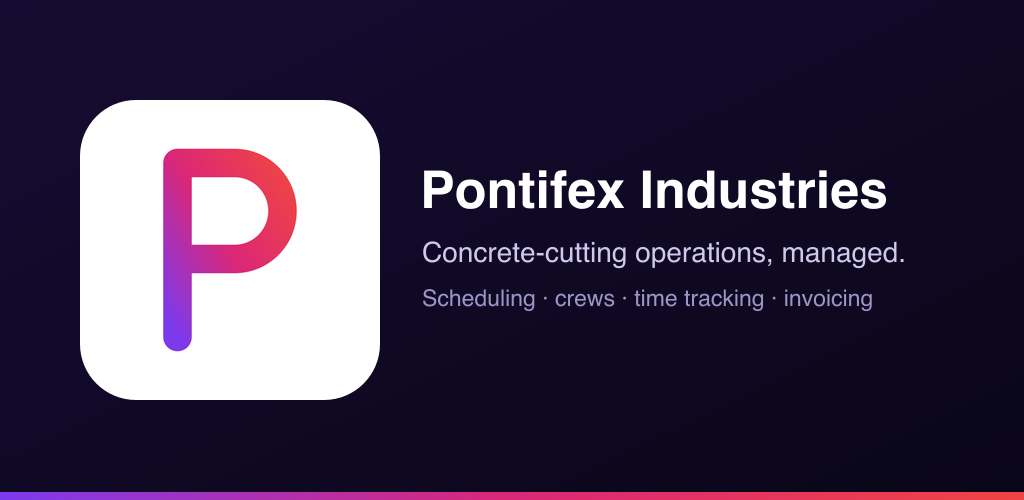
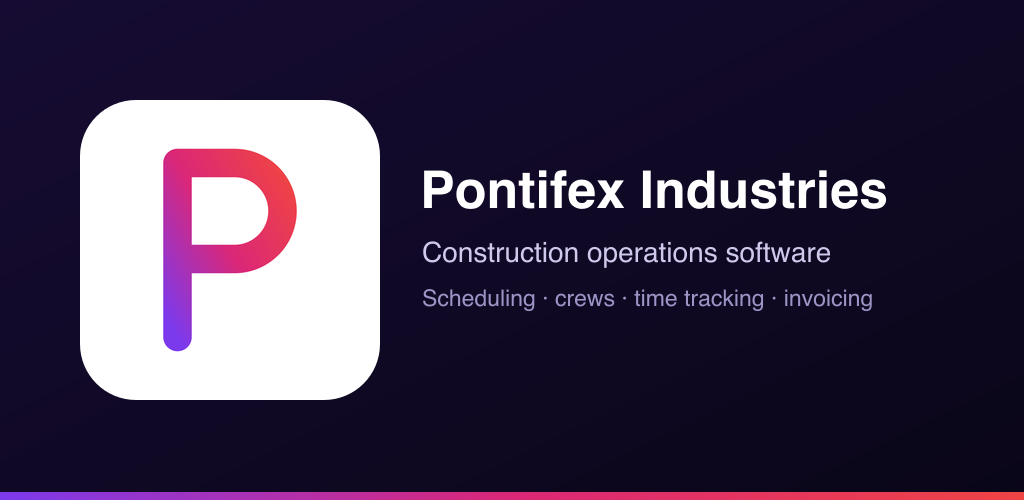
build(play): broad/generic store copy + tagline (non-compete safe)
Founder has a non-compete — keep all public store-facing text generic
'construction operations software', no niche/employer specifics.

- Feature graphic tagline: 'Concrete-cutting operations, managed.' → 'Construction
  operations software'.
- Plan: added broad short + full store description copy to paste into Play Console.

Changed region(s): [[0.4688, 0.48, 0.875, 0.54]]

diff --git a/docs/plans/GOOGLE_PLAY_RELEASE_PLAN.md b/docs/plans/GOOGLE_PLAY_RELEASE_PLAN.md
@@ -66,7 +66,31 @@ Field-worker (operator) demo, if needed:
 ```
 
 ## 🎨 Store graphics — generated (`assets/play/`)
-- `icon-512.png` (512×512 high-res icon) and `feature-graphic-1024x500.png` (dark brand banner + P tile + wordmark). Built by `scripts/build-play-graphics.mjs`. Still need **≥2 phone screenshots** (capture from the running app/emulator once the AAB installs). Full store description copy available on request.
+- `icon-512.png` (512×512 high-res icon) and `feature-graphic-1024x500.png` (dark brand banner + P tile + wordmark, tagline "Construction operations software"). Built by `scripts/build-play-graphics.mjs`. Still need **≥2 phone screenshots** (capture from the running app/emulator once the AAB installs).
+
+## ✍️ Store description — paste into Play Console (deliberately BROAD)
+Kept generic ("construction operations software") at the founder's request — no niche/employer specifics (non-compete). Edit anytime.
+
+**Short description (≤80 chars):**
+```
+Construction operations software: jobs, crews, time tracking, and invoicing.
+```
+
+**Full description:**
+```
+Pontifex Industries is operations software for construction and field-service
+teams. Run your day-to-day work in one place — from the office or the field.
+
+• Schedule and dispatch jobs
+• Manage crews and team members
+• Track time and timecards
+• Keep customer and job records
+• Create and send invoices
+• Get real-time notifications
+• Works on phone and desktop
+
+Streamline how your team plans the day, tracks the work, and bills for it.
+```
 
 ## ⚠️ Risk to know
 Play policy **4.2 (minimum functionality / "webpage repackaged as an app")** can flag thin webview wrappers. We should pass — the app adds real native value (push, GPS clock-in, camera, biometric, NFC) — but the listing should emphasize those native features, and the demo login (App access) must work for reviewers.